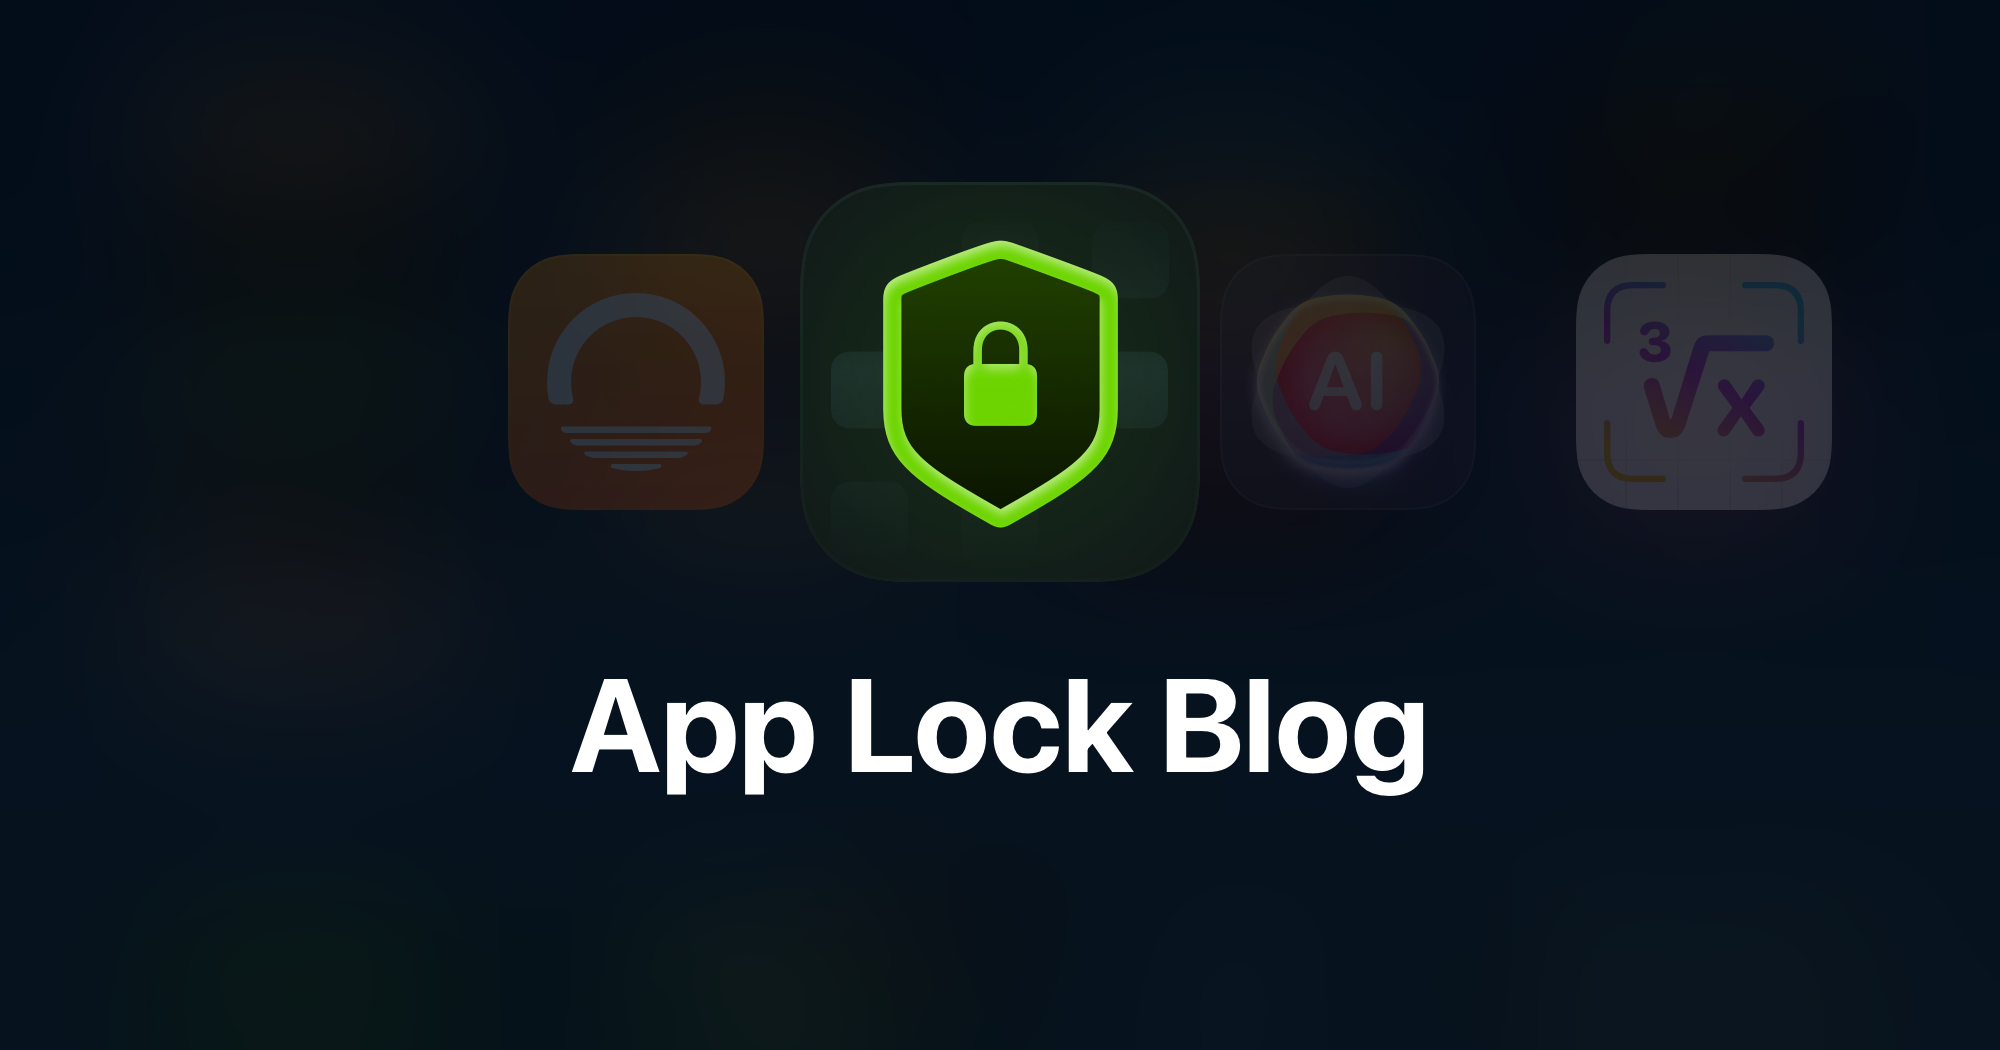
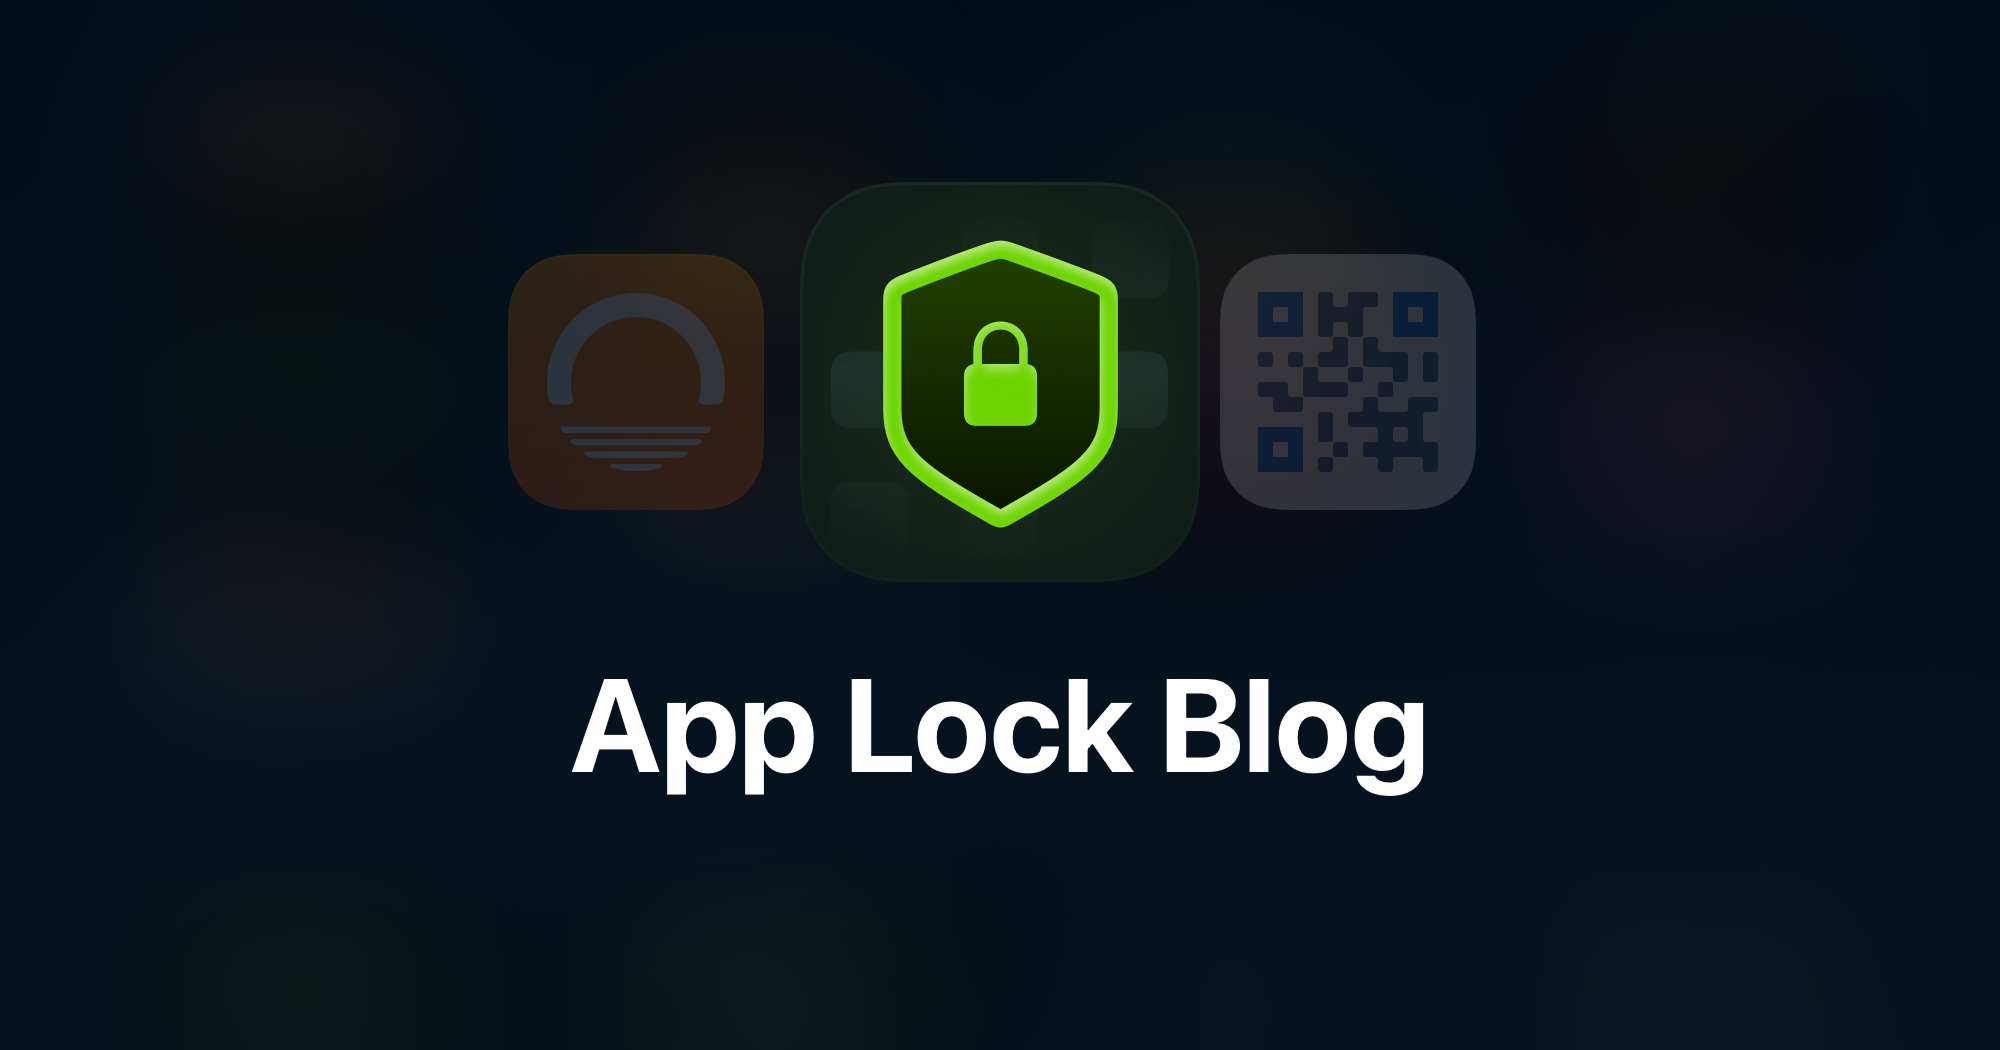
update

Changed region(s): [[0.775, 0.2438, 0.93, 0.4876], [0.589, 0.2438, 0.744, 0.4876]]

diff --git a/pages/blog/blog-qr-code-reader.html b/pages/blog/blog-qr-code-reader.html
@@ -1,28 +1,24 @@
 ---
 layout: bootstrap
-title: AI PDF Scanner Blog
+title: QR Code Reader Blog
 description: Explore Insights, Tips, and Inspiration for Personal Growth, Productivity, and Success. Join us on a journey of self-improvement and empowerment.
-permalink: /blog/ai-pdf-scanner/
+permalink: /blog/qr-code-reader/
 image:
   path: https://lilucat.com/assets/img/blog/cover.jpg
   alt: Lilucat Blog Page
 app_id: 6448180124
-published: false
+published: true
 ---
 <div class="container pb-md-5 pb-4 mt-3">
-  
-  {%- include blog-nav.html -%}
-  
+  {%- include blog-nav.html -%} 
   <div class="p-md-5 p-4 mb-4 bg-light rounded-img">
     <div class="container-fluid py-md-5">
       <h1 class="display-5 fw-bold">{{ page.title }}</h1>
       <p class="col-md-9 fs-4 mb-0">{{ page.description }}</p>
     </div>
   </div>
-
   <div class="row align-items-md-stretch">
-    {% assign sorted-posts = site.posts | where: "categories","ai-pdf-scanner" %}
+    {% assign sorted-posts = site.posts | where: "categories","qr-code-reader" %}
     {%- include blog-card.html -%}
   </div>
-
 </div>

diff --git a/_includes/blog-card.html b/_includes/blog-card.html
@@ -4,7 +4,7 @@
     <a href="{{ post.url }}" class="stretched-link"></a>
     <div class="position-absolute top-0 mt-3 ps-3">
       <a href="{% if page.url == '/blog/' %} {{ post.categories }}/ {% else %} {{ page.permalink }}{% endif %}" class="stretched-link" style="position: relative;">
-        <span class="badge bg-light-subtle text-light-emphasis">{{ post.categories | replace: '-', ' ' | remove: '"]' | remove: '["' | capitalize }}</span>
+        <span class="badge bg-light-subtle text-light-emphasis">{{ post.categories | replace: '-', ' ' | remove: '"]' | remove: '["' | capitalizewords }}</span>
       </a>
     </div>
     <img src="{{ post.image.path }}" class="w-100 rounded-top-4" alt="{{ post.title }} Image">

diff --git a/pages/blog/blog-ai-math-solver.html b/pages/blog/blog-ai-math-solver.html
@@ -10,19 +10,15 @@ app_id: 6449217479
 published: false
 ---
 <div class="container pb-md-5 pb-4 mt-3">
-  
   {%- include blog-nav.html -%}
-  
   <div class="p-md-5 p-4 mb-4 bg-light rounded-img">
     <div class="container-fluid py-md-5">
       <h1 class="display-5 fw-bold">{{ page.title }}</h1>
       <p class="col-md-9 fs-4 mb-0">{{ page.description }}</p>
     </div>
   </div>
-
   <div class="row align-items-md-stretch">
     {% assign sorted-posts = site.posts | where: "categories","ai-pdf-scanner" %}
     {%- include blog-card.html -%}
   </div>
-
 </div>

diff --git a/pages/blog/blog-screenfree.html b/pages/blog/blog-screenfree.html
@@ -10,19 +10,15 @@ app_id: 6449741551
 published: false
 ---
 <div class="container pb-md-5 pb-4 mt-3">
-  
   {%- include blog-nav.html -%}
-  
   <div class="p-md-5 p-4 mb-4 bg-light rounded-img">
     <div class="container-fluid py-md-5">
       <h1 class="display-5 fw-bold">{{ page.title }}</h1>
       <p class="col-md-9 fs-4 mb-0">{{ page.description }}</p>
     </div>
   </div>
-
   <div class="row align-items-md-stretch">
     {% assign sorted-posts = site.posts | where: "categories","screenfree" %}
     {%- include blog-card.html -%}
   </div>
-
 </div>

diff --git a/pages/blog/blog-focus-app.html b/pages/blog/blog-focus-app.html
@@ -9,19 +9,15 @@ image:
 app_id: 6449741551
 ---
 <div class="container pb-md-5 pb-4 mt-3">
-  
   {%- include blog-nav.html -%}
-  
   <div class="p-md-5 p-4 mb-4 bg-light rounded-img">
     <div class="container-fluid py-md-5">
       <h1 class="display-5 fw-bold">{{ page.title }}</h1>
       <p class="col-md-9 fs-4 mb-0">{{ page.description }}</p>
     </div>
   </div>
-
   <div class="row align-items-md-stretch">
     {% assign sorted-posts = site.posts | where: "categories","focus-app" %}
     {%- include blog-card.html -%}
   </div>
-
 </div>

diff --git a/pages/blog/blog-app-lock.html b/pages/blog/blog-app-lock.html
@@ -9,19 +9,15 @@ image:
 app_id: 6448239603
 ---
 <div class="container pb-md-5 pb-4 mt-3">
-  
   {%- include blog-nav.html -%}
-  
   <div class="p-md-5 p-4 mb-4 bg-light rounded-img">
     <div class="container-fluid py-md-5">
       <h1 class="display-5 fw-bold">{{ page.title }}</h1>
       <p class="col-md-9 fs-4 mb-0">{{ page.description }}</p>
     </div>
   </div>
-
   <div class="row align-items-md-stretch">
     {% assign sorted-posts = site.posts | where: "categories","app-lock" %}
     {%- include blog-card.html -%}
   </div>
-
 </div>

diff --git a/pages/blog/blog.html b/pages/blog/blog.html
@@ -9,19 +9,15 @@ image:
 app_id: 6449741551
 ---
 <div class="container pb-md-5 pb-4 mt-3">
-
   {%- include blog-nav.html -%}
-
   <div class="p-md-5 p-4 mb-4 bg-light rounded-img">
     <div class="container-fluid py-md-5">
       <h1 class="display-5 fw-bold">{{ page.title }}</h1>
       <p class="col-md-9 fs-4 mb-0">{{ page.description }}</p>
     </div>
   </div>
-
   <div class="row align-items-md-stretch">
     {% assign sorted-posts = site.posts %}
     {%- include blog-card.html -%}
   </div>
-
 </div>

diff --git a/_plugins/capitalizewords.rb b/_plugins/capitalizewords.rb
@@ -1,0 +1,13 @@
+# frozen_string_literal: true
+
+# capitalizewords / https://github.com/jasoncomes/Capitalize-Words-Liquid-Filter
+# Takes a string or variable and capitalizes the first letter of every word.
+# {{ string | capitalizewords }}
+
+module CapitalizeWords
+    def capitalizewords(words)
+      words.to_s.split(' ').map(&:capitalize).join(' ')
+    end
+  end
+  
+  Liquid::Template.register_filter(CapitalizeWords)

diff --git a/_posts/qrcodereader/2024-04-04-add-any-qr-code-to-apple-wallet.md b/_posts/qrcodereader/2024-04-04-add-any-qr-code-to-apple-wallet.md
@@ -1,0 +1,15 @@
+---
+layout: post
+permalink: /blog/:categories/:title/
+title: "Add Any QR Code To Apple Wallet"
+categories: qr-code-reader
+date: 2024-04-04 11:21
+last_modified_at: 2024-04-05 12:26
+image:
+  path: /assets/img/blog/add-any-qr-code-to-apple-wallet.jpg
+  alt: "Add Any QR Code To Apple Wallet"
+author: Lilucat Team
+app_id: 6469319539
+published: false
+---
+Add Any QR Code To Apple Wallet
